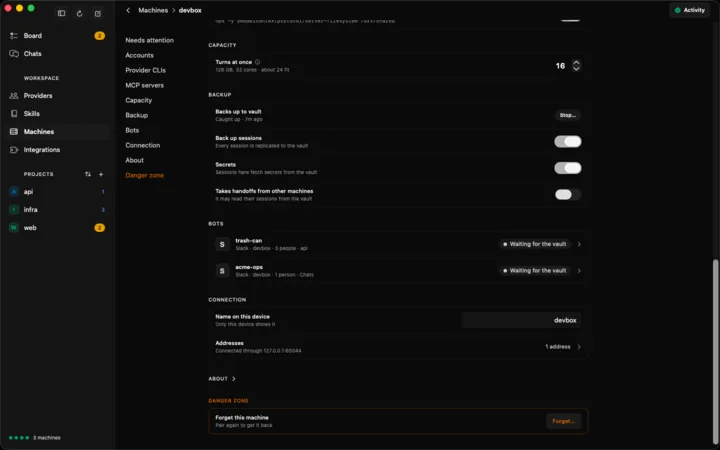
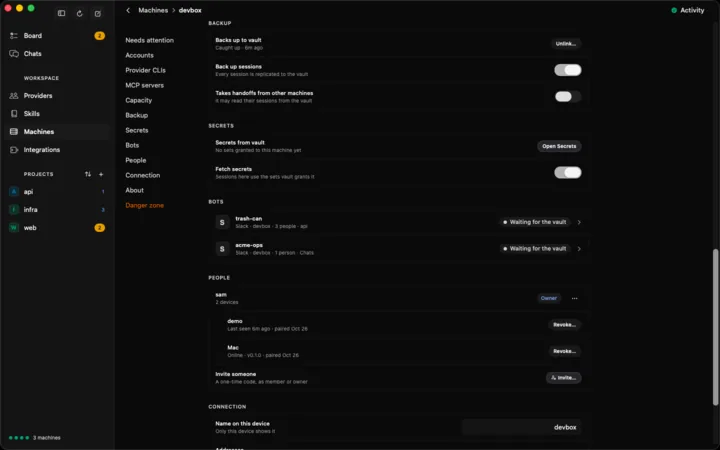
Show the finished P16 apps on herder.sh
Every app screenshot on the page comes from screenshots run
40370017719 on main with all of P16 but #483, Integrations included,
which the earlier preview still showed from before P16. The vault
shot's caption now says what its page shows since People and Secrets.

Herder-Session: 01M5TQAJRANMJE95Z5RCD9A1C9

diff --git a/site/index.html b/site/index.html
@@ -321,7 +321,7 @@
         <p class="how"><span>how</span> run it on Kubernetes with the manifests in the repo, or on any machine with one click in the app or <code>herder vault install</code>.</p>
       </div>
       <figure class="shot">
-        <img src="img/mac-backup-1440.webp" srcset="img/mac-backup-720.webp 720w, img/mac-backup-1440.webp 1440w" sizes="(min-width: 1160px) 640px, (min-width: 861px) 56vw, 94vw" width="1440" height="900" loading="lazy" decoding="async" alt="A machine's page in the herder Mac app: it backs up to the vault, caught up, with switches for backup, secrets and handoffs">
+        <img src="img/mac-backup-1440.webp" srcset="img/mac-backup-720.webp 720w, img/mac-backup-1440.webp 1440w" sizes="(min-width: 1160px) 640px, (min-width: 861px) 56vw, 94vw" width="1440" height="900" loading="lazy" decoding="async" alt="A machine's page in the herder Mac app: it backs up to the vault, caught up, fetches its secrets from it, and lists its bots and the people on it">
       </figure>
     </section>
 
